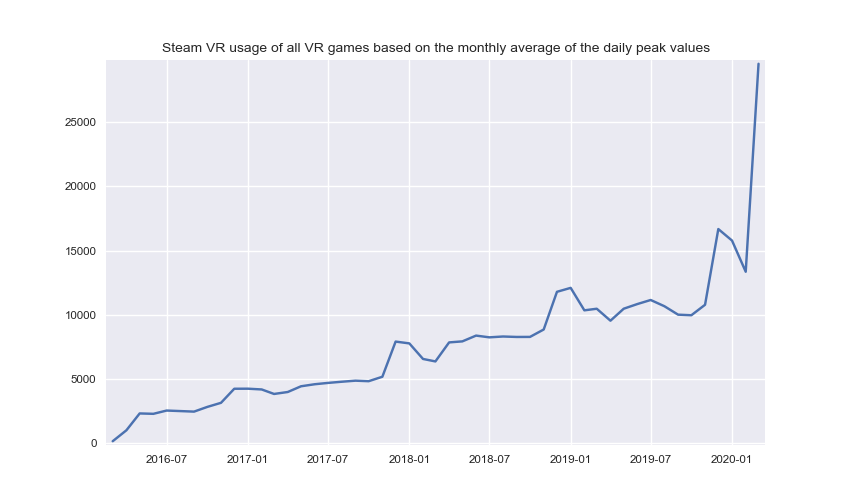
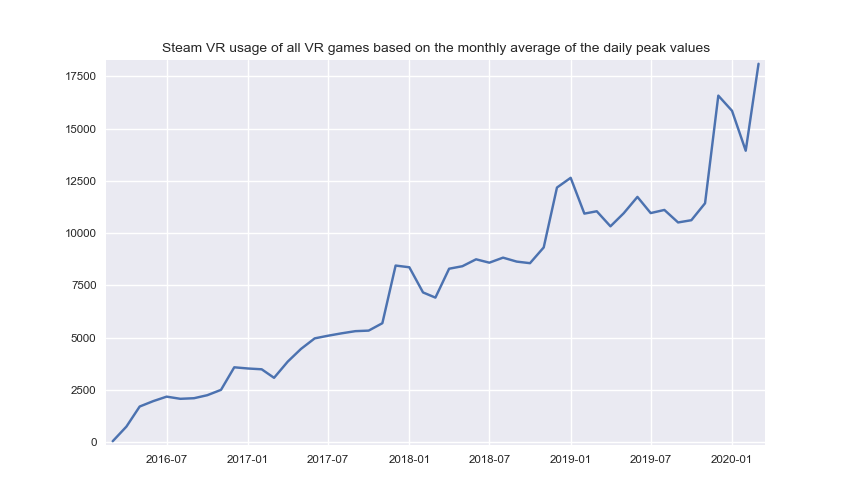
update

diff --git a/src/sql_query.py b/src/sql_query.py
@@ -65,33 +65,33 @@ def top10_previous_month(start_date):
     return c.fetchall()
 
 
+def peak_players():
+    """Returns the monthly average of the daily peak values since 2016-03 as a list."""
+    c.execute('''
+    Select new_date, sum(average) from (SELECT strftime('%Y-%m', date) as new_date,
+    sum(players)/(julianday(date,'start of month','+1 month') - julianday(date,'start of month'))
+    as average from vr_players
+    WHERE date != '2019-07-24' and date > '2016-03' and date < date('now','start of month')
+    GROUP by appid, new_date
+    ORDER by new_date)
+    WHERE average >= 1
+    Group by new_date
+    ''')
+    return c.fetchall()
+
+
 # def peak_players():
 #     """Returns the monthly average of the daily peak values since 2016-03 as a list."""
 #     c.execute('''
 #     Select new_date, sum(average) from (SELECT strftime('%Y-%m', date) as new_date,
-#     sum(players)/(julianday(date,'start of month','+1 month') - julianday(date,'start of month'))
-#     as average from vr_players
-#     WHERE appid != 546560 and date != '2019-07-24' and date > '2016-03' and date < date('now','start of month')
+#     avg(players) as average from vr_players
+#     WHERE date != '2019-07-24' and date > '2016-03' and date < date('now','start of month')
 #     GROUP by appid, new_date
 #     ORDER by new_date)
-#     WHERE average >= 1
+#     WHERE average > 2
 #     Group by new_date
 #     ''')
 #     return c.fetchall()
-
-
-def peak_players():
-    """Returns the monthly average of the daily peak values since 2016-03 as a list."""
-    c.execute('''
-    Select new_date, sum(average) from (SELECT strftime('%Y-%m', date) as new_date, 
-    avg(players) as average from vr_players
-    WHERE date != '2019-07-24' and date > '2016-03' and date < date('now','start of month')
-    GROUP by appid, new_date
-    ORDER by new_date)
-    WHERE average > 2
-    Group by new_date
-    ''')
-    return c.fetchall()
 
 
 def max_peak_players(appid):
